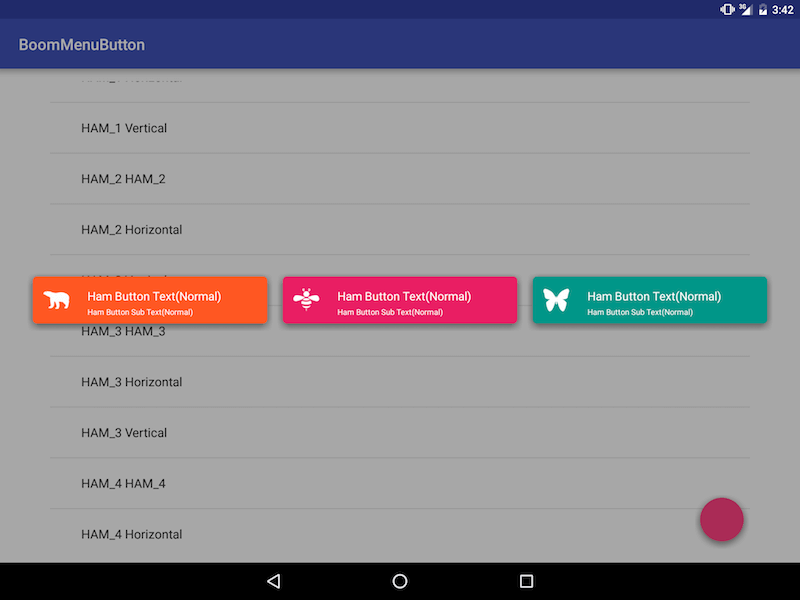
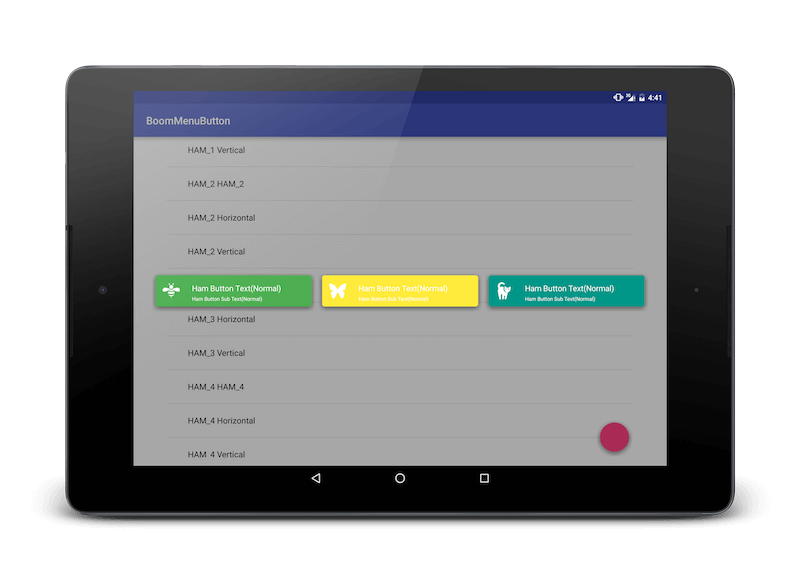
Other pictures.

diff --git a/boommenu/src/main/java/com/nightonke/boommenu/BoomButtons/ButtonPlaceManager.java b/boommenu/src/main/java/com/nightonke/boommenu/BoomButtons/ButtonPlaceManager.java
@@ -425,21 +425,21 @@ public class ButtonPlaceManager {
             case Horizontal:
                 if (buttonNumber % 2 == 0) {
                     for (int i = half - 1; i >= 0; i--) positions.add(point(-w / 2 - hm / 2 - i * (w + hm), 0));
-                    for (int i = 0; i < h; i++) positions.add(point(w / 2  + hm / 2 + i * (w + hm), 0));
+                    for (int i = 0; i < half; i++) positions.add(point(w / 2  + hm / 2 + i * (w + hm), 0));
                 } else {
                     for (int i = half - 1; i >= 0; i--) positions.add(point(-w - hm - i * (w + hm), 0));
                     positions.add(point(0, 0));
-                    for (int i = 0; i < h; i++) positions.add(point(w + hm + i * (w + hm), 0));
+                    for (int i = 0; i < half; i++) positions.add(point(w + hm + i * (w + hm), 0));
                 }
                 break;
             case Vertical:
                 if (buttonNumber % 2 == 0) {
                     for (int i = half - 1; i >= 0; i--) positions.add(point(0, -h / 2 - vm / 2 - i * (h + vm)));
-                    for (int i = 0; i < h; i++) positions.add(point(0, h / 2 + vm / 2 + i * (h + vm)));
+                    for (int i = 0; i < half; i++) positions.add(point(0, h / 2 + vm / 2 + i * (h + vm)));
                 } else {
                     for (int i = half - 1; i >= 0; i--) positions.add(point(0, -h - vm - i * (h + vm)));
                     positions.add(point(0, 0));
-                    for (int i = 0; i < h; i++) positions.add(point(0, h + vm + i * (h + vm)));
+                    for (int i = 0; i < half; i++) positions.add(point(0, h + vm + i * (h + vm)));
                 }
                 break;
             case SC_1:
@@ -797,13 +797,13 @@ public class ButtonPlaceManager {
                 if (buttonNumber % 2 == 0) {
                     for (int i = half - 1; i >= 0; i--)
                         positions.add(point(-w / 2 - hm / 2 - i * (w + hm), 0));
-                    for (int i = 0; i < h; i++)
+                    for (int i = 0; i < half; i++)
                         positions.add(point(w / 2 + hm / 2 + i * (w + hm), 0));
                 } else {
                     for (int i = half - 1; i >= 0; i--)
                         positions.add(point(-w - hm - i * (w + hm), 0));
                     positions.add(point(0, 0));
-                    for (int i = 0; i < h; i++) positions.add(point(w + hm + i * (w + hm), 0));
+                    for (int i = 0; i < half; i++) positions.add(point(w + hm + i * (w + hm), 0));
                 }
                 break;
             case Vertical:

diff --git a/app/src/main/java/com/nightonke/boommenusample/HamButtonActivity.java b/app/src/main/java/com/nightonke/boommenusample/HamButtonActivity.java
@@ -8,6 +8,7 @@ import android.widget.AdapterView;
 import android.widget.ArrayAdapter;
 import android.widget.ListView;
 
+import com.nightonke.boommenu.BoomButtons.ButtonPlaceAlignmentEnum;
 import com.nightonke.boommenu.BoomMenuButton;
 import com.nightonke.boommenu.BoomButtons.ButtonPlaceEnum;
 import com.nightonke.boommenu.ButtonEnum;
@@ -32,6 +33,7 @@ public class HamButtonActivity extends AppCompatActivity {
         bmb.setPiecePlaceEnum(PiecePlaceEnum.HAM_1);
         bmb.setButtonPlaceEnum(ButtonPlaceEnum.HAM_1);
         bmb.addBuilder(BuilderManager.getHamButtonBuilder());
+        bmb.setButtonPlaceAlignmentEnum(ButtonPlaceAlignmentEnum.BL);
 
         ListView listView = (ListView) findViewById(R.id.list_view);
         assert listView != null;

diff --git a/app/src/main/java/com/nightonke/boommenusample/TextOutsideCircleButtonActivity.java b/app/src/main/java/com/nightonke/boommenusample/TextOutsideCircleButtonActivity.java
@@ -33,7 +33,6 @@ public class TextOutsideCircleButtonActivity extends AppCompatActivity {
         bmb.setPiecePlaceEnum(PiecePlaceEnum.DOT_1);
         bmb.setButtonPlaceEnum(ButtonPlaceEnum.SC_1);
         bmb.addBuilder(BuilderManager.getTextOutsideCircleButtonBuilder());
-        bmb.setButtonPlaceAlignmentEnum(ButtonPlaceAlignmentEnum.Right);
 
         ListView listView = (ListView) findViewById(R.id.list_view);
         assert listView != null;
